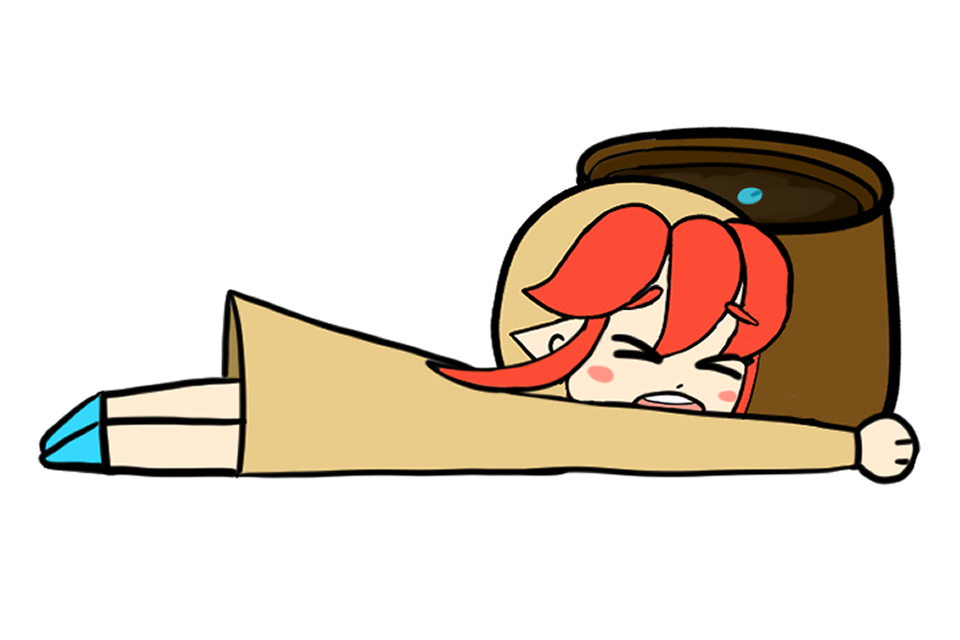
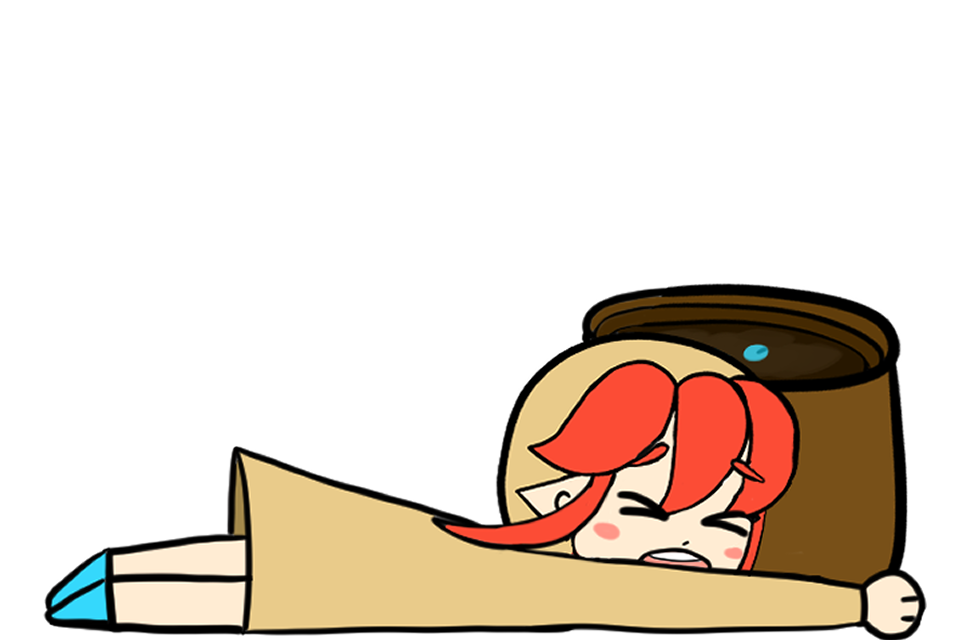
Add jump and slide

diff --git a/lib/controls/mobile_controls.dart b/lib/controls/mobile_controls.dart
@@ -1,3 +1,4 @@
+import 'package:flame/components.dart';
 import 'package:flutter/material.dart';
 
 import '../main.dart';
@@ -47,15 +48,40 @@ class MobileControls extends StatelessWidget {
                 ],
               ),
             ),
-            const Expanded(
+            Expanded(
               child: Row(
                 mainAxisAlignment: MainAxisAlignment.spaceBetween,
                 children: [
                   _ArrowButton(
                     icon: Icons.keyboard_arrow_down_rounded,
+                    onPressed: () {
+                      double startGroundHeight = game.groundObjects.first.height;
+                      Vector2 lyaSize = Vector2(480, 320);
+                      game.lya.animation = game.slideAnimation;
+                      game.lya.size = lyaSize;
+                      game.lya.position = Vector2(game.lya.position.x, game.mapHeight - lyaSize.y - startGroundHeight);
+                      Future.delayed(const Duration(milliseconds: 400), () {
+                        game.lya.animation = game.runAnimation;
+                      Vector2 lyaSize = Vector2(320, 480);
+                      game.lya.animation = game.runAnimation;
+                      game.lya.size = lyaSize;
+                      game.lya.position = Vector2(game.lya.position.x, game.mapHeight - lyaSize.y - startGroundHeight);
+                      });
+                    },
                   ),
                   _ArrowButton(
                     icon: Icons.keyboard_arrow_up_rounded,
+                    onPressed: () {
+                      if (game.jumpCount >= 1) { return; }
+                      game.lya.animation = game.jumpAnimation;
+                      game.lya.y -= 200;
+                      game.velocity.y = -game.jumpForce;
+                      Future.delayed(const Duration(milliseconds: 400), () {
+                        game.lya.animation = game.runAnimation;
+                        game.lya.size = Vector2(320, 480);
+                      });
+                      game.jumpCount = 1;
+                    },
                   ),
 
                   // ActionButton(
@@ -89,16 +115,18 @@ class MobileControls extends StatelessWidget {
 
 class _ArrowButton extends StatelessWidget {
   const _ArrowButton({
+    Key? key,
     required this.icon,
-    super.key,
-  });
+    required this.onPressed,
+  }) : super(key: key);
 
   final IconData icon;
+  final void Function()? onPressed;
 
   @override
   Widget build(BuildContext context) {
     return ElevatedButton(
-      onPressed: () {},
+      onPressed: onPressed,
       style: ElevatedButton.styleFrom(
         backgroundColor: Colors.grey.shade400.withOpacity(0.5),
         shape: const CircleBorder(),

diff --git a/lib/actors/lya.dart b/lib/actors/lya.dart
@@ -31,6 +31,7 @@ class Lya extends SpriteAnimationComponent with CollisionCallbacks, HasGameRef<G
     super.onCollision(intersectionPoints, other);
 
     if (other is Ground) {
+      gameRef.jumpCount = 0;
       gameRef.velocity.y = 0;
       onGround = true;
     } else if (other is Obstacle) {
@@ -43,7 +44,10 @@ class Lya extends SpriteAnimationComponent with CollisionCallbacks, HasGameRef<G
     } else if (other is Stage) {
       if ((y + height) >= other.height) {
         gameRef.pushSpeed = 0;
-        gameRef.lya.animation = gameRef.hitAnimation; // TODO: change to dead animation
+        gameRef.lya.animation = gameRef.hitAnimation;
+        // Future.delayed(const Duration(milliseconds: 400), () {
+        //   game.lya.animation = game.deadAnimation;
+        // });
         _declareDead();
       }
     }

diff --git a/lib/main.dart b/lib/main.dart
@@ -32,8 +32,10 @@ void main() {
 
 class GameJam2023 extends FlameGame with HasCollisionDetection {
   Lya lya = Lya();
-  double gravity = 100;
+  double gravity = 50;
   double pushSpeed = 0;
+  double jumpCount = 0;
+  final double jumpForce = 500;
   Vector2 velocity = Vector2(0, 0);
 
   late TiledComponent levelMap;
@@ -138,6 +140,7 @@ class GameJam2023 extends FlameGame with HasCollisionDetection {
     overlays.add('StartMenu');
     gravity = 100;
     pushSpeed = 0;
+    jumpCount = 0;
     velocity = Vector2(0, 0);
     for (final obj in instrumentObjects) {
       if(obj.parent == null) {
